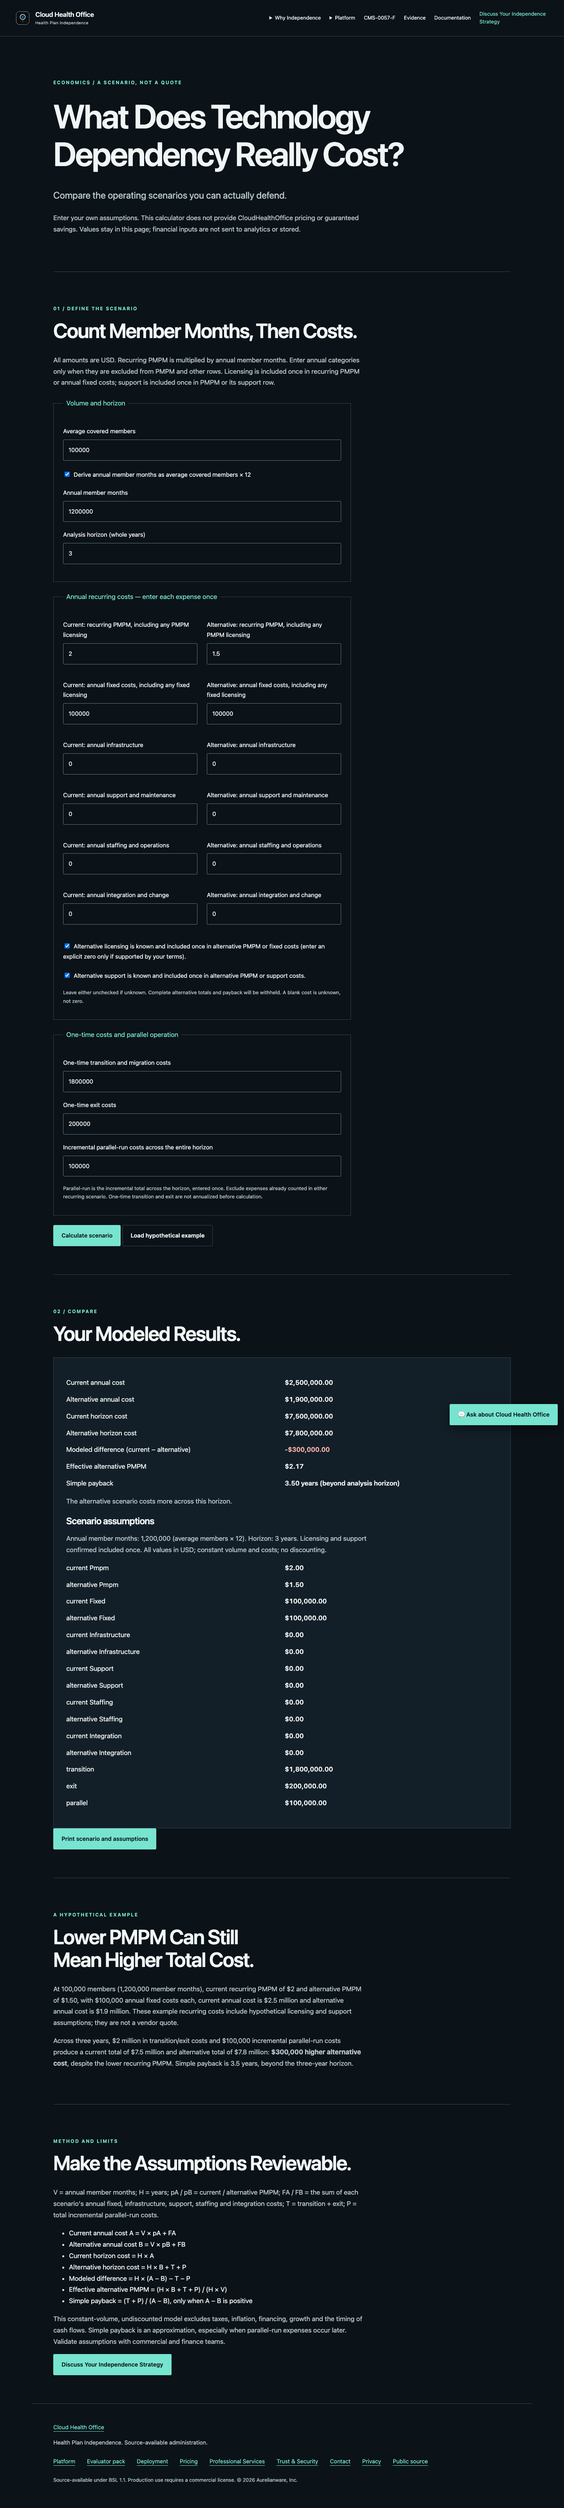
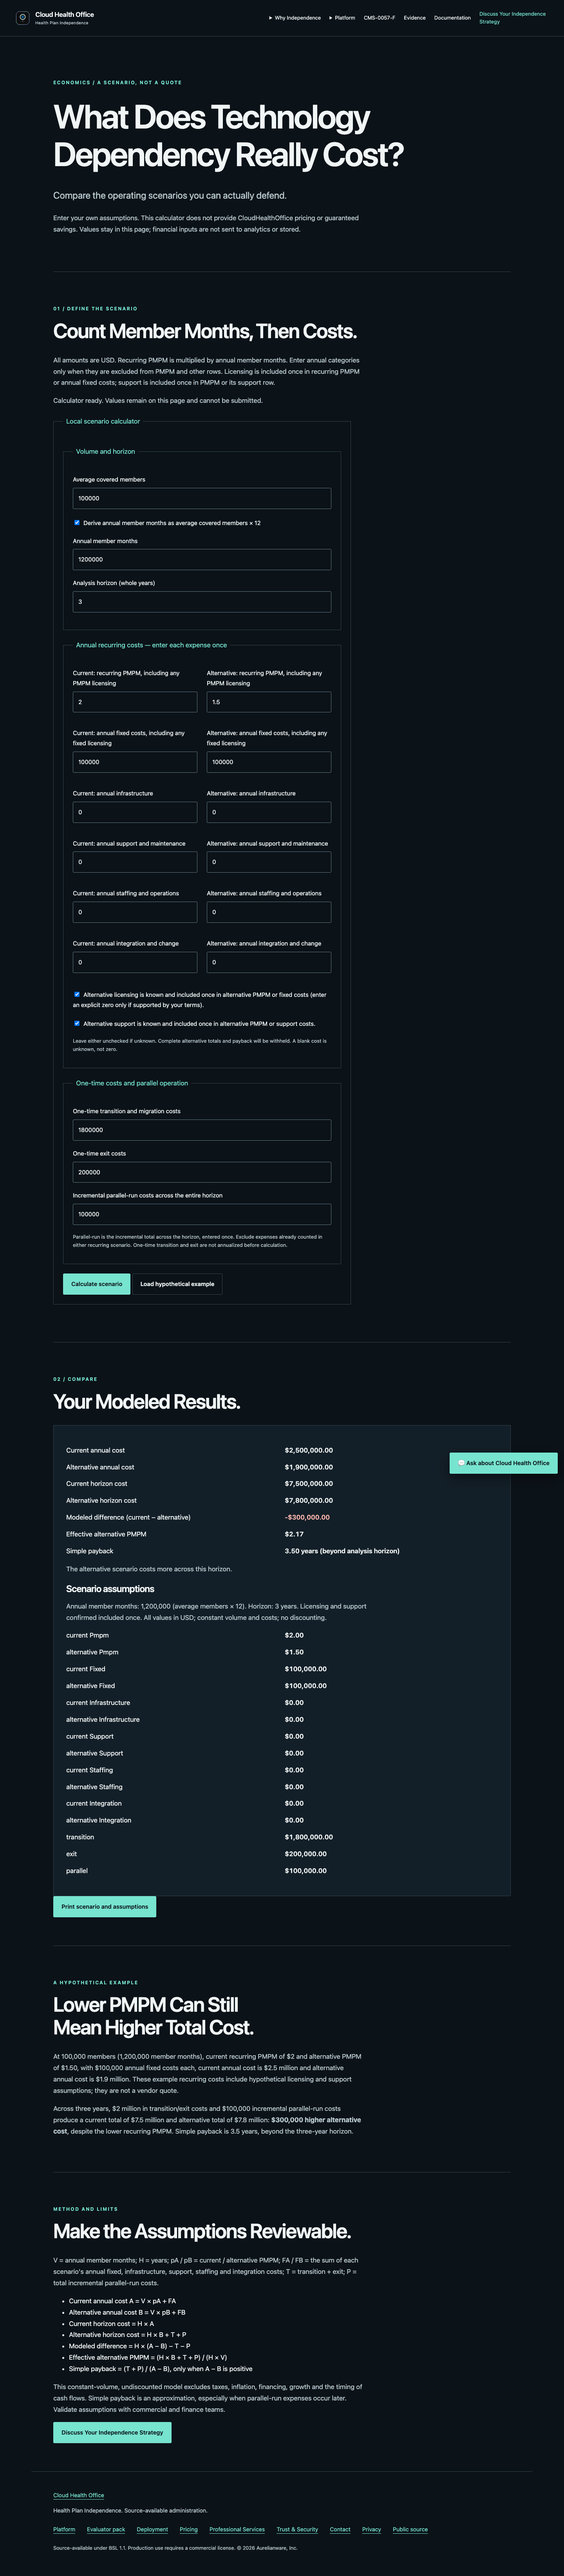
docs(marketing): refresh privacy, hosted routing and screenshot evidence

diff --git a/docs/marketing/independence/REVIEW.md b/docs/marketing/independence/REVIEW.md
@@ -15,11 +15,11 @@ Reviewed October 19, 2026 (America/Phoenix). Implementation branch: `feat/health
 
 No Search Console exports were available. The homepage title conservatively retains CMS-0057-F and FHIR intent: **Health Plan Administration & CMS-0057-F FHIR APIs, On Your Terms | CloudHealthOffice**. The description still names CMS-0057-F/FHIR and coexistence with QNXT, Facets and HealthEdge. Existing CMS and technical destinations remain linked.
 
-The artifact tests compare against `origin/main`: all **99 baseline HTML files** remain and every existing homepage `id` is retained. Existing fragment IDs are compatibility destinations; obsolete promotional controls are not restored. The redirect file is byte-for-byte unchanged, with no catch-all rules or newly introduced loops. Clean routes use the existing hosting convention; no infrastructure or historical Azure routing configuration was changed.
+The artifact tests compare against `origin/main`: all **99 baseline HTML files** remain. Thirteen meaningful legacy content fragments now land on substantive CMS/FHIR, platform progression, engagement, services and next-step content with matching onward links. Tests verify their subject, parent section, visibility and scroll destination, rather than mere ID existence. Obsolete `fp-banner`, `fp-banner-dismiss` and `stickyCta` control IDs are retired; they were not content destinations. The redirect file is byte-for-byte unchanged, with no catch-all rules or newly introduced loops. Clean routes use the existing hosting convention; no infrastructure or historical Azure routing configuration was changed.
 
 The existing sitemap generator runs in strict mode with full Git history. Its output has **95 unique URLs**, compared with 90 baseline entries: exactly the five new routes appear once. All original sitemap entries remain; error, login, portal and marketing mockup exclusions remain excluded. The generated `dist/sitemap.xml` is the deployment artifact; the curated source sitemap remains unchanged so unrelated priorities and dates are not rewritten.
 
-All six executive pages have one H1, a unique title/description, HTTPS canonical, matching social URL and parseable WebPage JSON-LD. Local href/src targets and fragment links resolve in built output. Existing remote documentation/source links were checked against repository paths, not represented as a complete remote-link availability crawl. Local clean-route testing reproduces file resolution; production CDN behavior must be checked in the hosting preview.
+All six executive pages have one H1, a unique title/description, HTTPS canonical, matching social URL and parseable WebPage JSON-LD. Local href/src targets and fragment links resolve in built output. Existing remote documentation/source links were checked against repository paths, not represented as a complete remote-link availability crawl. Local clean-route testing reproduces file resolution. The read-only hosted checker additionally verifies clean routes, canonical redirects and a calculator asset hash against an existing hosted preview; see the final-head evidence procedure below. Production-domain release validation remains separate.
 
 ## Capability claim review
 
@@ -41,17 +41,38 @@ The governing source is [CAPABILITY_RECONCILIATION.md](../../CAPABILITY_RECONCIL
 | Synthetic evidence | Existing `/evidence` and MCC archive | Supports evaluation, not production outcomes or customer adoption. |
 | Economics | Explicit buyer inputs; calculator arithmetic tests | No incumbent pricing claim, quote or guaranteed savings; unknown licensing/support blocks totals. |
 
+## Follow-up fixes and evidence identity
+
+The approved Health Plan Independence narrative, licensing qualifications and PR #1410 capability classifications are unchanged. Source/test revision **`dec71610ba665ef3ed7df69c0035a7b8ecc76bf0`** was validated from a clean checkout against explicit baseline **`01164a944c7c7a36bdb46cf0cfbab08d9e87e847`**. [source-validation.json](source-validation.json) records that clean source head, baseline, checks and SHA-256 hashes for the twelve responsive screenshots plus printable-results screenshot. The [Linux source validation run](https://github.com/aurelianware/cloudhealthoffice/actions/runs/39338617055) also passed at this SHA. Its first predecessor caught a Linux-font mobile overflow; the committed heading/button sizing fix passed the rerun. Subsequent review/evidence commits change documentation and images only.
+
+A report cannot embed the SHA of the commit that contains itself. Final-head evidence is therefore generated **after** committing: the PR description identifies the exact final SHA and links its [Marketing independence validation run](https://github.com/aurelianware/cloudhealthoffice/actions/workflows/marketing-independence.yml). That run uploads `independence-<full-head-SHA>` with a fresh `evidence.json` and screenshots. The workflow explicitly checks out the PR head, fetches its base SHA into `refs/remotes/origin/marketing-baseline`, and requires complete Git history. This avoids presenting a test of a merge commit, stale main ref or previous code revision as final-head validation. Local final-head screenshots are compared with the tracked PNG hashes; Linux CI captures are separately identified and may rasterize fonts differently.
+
+### Calculator fallback privacy
+
+The calculator has **no native form**, no named/form-associated financial controls and no submit buttons. Its outer fieldset and print button are disabled in source HTML, with an explicit unavailable message. Only complete successful initialization enables controls and announces readiness. The button and Enter use explicit local calculations. If JavaScript is disabled, blocked, throws during initialization or its handlers later stop working, there is no native request/URL serialization path for financial inputs. Native input validity is still checked before calculation.
+
+### Legacy destinations and keyboard entry
+
+`cms-explainer` / `audience-heading` target CMS/FHIR resources; `platform-flow`, `claims-pipeline-heading` and `how-it-works-heading` target the modernization progression; `engage` / `engage-heading` target the partnership invitation; `software-services` / `software-services-heading` target services; `advisory`, `advisory-heading`, `next-step` and `next-step-heading` target deployment discussion. All six executive main landmarks now accept skip-link focus.
+
 ## Validation
 
-- Locked site dependencies installed with `npm ci --prefix src/site --ignore-scripts`. Locked root dependencies installed with lifecycle scripts disabled to run the existing tests; package/lockfiles were not upgraded. Root installation reported 20 moderate advisories in existing dependencies; dependency remediation is outside the authorized marketing scope.
-- `SITEMAP_STRICT=1 npm run build:site` passed with the existing publication generator, HTML build and sitemap generation.
-- `npm run validate:site` completes; it reports no issues on the six executive pages and **21 potential issues on existing pages**. This legacy validator is not a complete accessibility audit.
-- Existing marketing positioning suite: **146 tests passed**.
-- New `npm --prefix src/site run test:independence`: **11 tests passed**, including seven arithmetic/invalid/unknown/edge-case calculator tests and four artifact/route/metadata/contrast checks. Run after building.
-- `node src/site/tests/independence-browser.cjs` (starts its own local clean-URL fixture unless `CHO_PREVIEW_URL` is set; `CHO_CHROME_PATH` can select installed Chrome) passed: six routes at 1440px and 390px, no horizontal overflow, one H1/canonical, visible skip-link focus, mobile menu/Escape/focus return, reduced-motion rendering, calculator stale-result invalidation and non-transmission, and both inquiry forms' failure/retry/acceptance/focus behavior.
-- Browser requests to external services were blocked. Formspree POST responses were mocked (500 then 200); successful-submit events occurred only after mocked acceptance. No real inquiry, email or calendar booking was sent. The built forms resolve to the existing configured endpoint `https://formspree.io/f/xgojygon`, but this does **not** establish inbox delivery or recipient ownership.
-- Contrast checks use the actual executive foreground/background tokens, including errors, accent links, button text and focus color. Keyboard and responsive checks are bounded, not a full assistive-technology or WCAG audit.
-- Generated `dist` was inspected and checked; test sources are excluded from the public artifact. All screenshots below come from that local built output. Calculator screenshots load the explicitly hypothetical example rather than implying a commercial quote.
+- `SITEMAP_STRICT=1 npm run build:site`: passed with full history, publication generation and sitemap. **95 unique sitemap URLs**, all baseline entries retained; no redirect-file changes.
+- `npm --prefix src/site run test:independence`: **13 passed**, including seven arithmetic tests and six artifact, route, metadata, fallback, meaningful-fragment and contrast checks. `CHO_BASELINE_REF` explicitly selects the fetched comparison commit.
+- Existing marketing positioning suite: **146 passed**.
+- Browser checks passed at **1440px and 390px** for all six pages: no overflow, one H1, matching canonical/social URL, keyboard skip focus on every page, home menu/disclosure/Escape focus, and thirteen content fragment destinations.
+- Privacy checks cover disabled JavaScript, a blocked calculator script and an injected formatter initialization failure. Unavailable/disabled state is asserted; button and Enter attempts produce no requests, including after test-only forced re-enabling of unnamed controls.
+- Valid, unique sentinel costs respect each field's step/min constraints. Both button and Enter produce successful recalculations; six exact computed outputs and incrementing success-event counts are asserted. The actual `analytics-events.js`, `choTrack` and build-injected `gtag` queue run unchanged. Every observed request URL, body and header, analytics event payload and browser storage is inspected for sentinels. **The remote GTM/GA loader is blocked; live GA receipt is not claimed.**
+- Both shared Formspree pathways retain mocked failure → retry → accepted response checks. The actual analytics queue records an error on failure and success only after acceptance; focus and PII exclusion are checked. External form requests are intercepted; **zero real inquiries or calendar bookings** are sent. Endpoint acceptance is not recipient/delivery verification.
+- Printable results include the successfully recalculated amounts and assumptions; the assistant and print action are hidden in print media. [Printable-results capture](screenshots/calculator-print.png) uses synthetic sentinel values, not real financial information.
+- `npm run validate:site` completes with no findings on the six executive pages and **21 potential pre-existing-page issues**. Contrast/keyboard checks are bounded, not a complete WCAG or assistive-technology audit.
+- New `.github/workflows/marketing-independence.yml` runs the strict build, independence unit/artifact checks, installed Chromium browser checks and head-labelled evidence upload on PRs, including evidence/report changes. It has read-only repository permissions and no publish/deploy step. Dependency versions/lockfiles and existing deployment workflows are unchanged.
+
+### Hosted preview verification
+
[1 lines of base64/hex data omitted]
+
+Reproduce local browser checks with `CHO_EVIDENCE_DIR=/tmp/independence-evidence node src/site/tests/independence-browser.cjs` after building. It starts its own local clean-route fixture; `CHO_CHROME_PATH` can select installed Chrome. Hosted checks only issue GET requests and require an existing HTTPS preview; they never create or publish one.
 
 ## Review screenshots
 
@@ -66,6 +87,6 @@ The governing source is [CAPABILITY_RECONCILIATION.md](../../CAPABILITY_RECONCIL
 
 ## Outstanding owner decisions before launch
 
-Confirm partnership scope, commercial terms and legal approval of licensing representations. Verify Formspree recipient ownership and delivery, spam controls and lead follow-up responsibilities. Verify the production host and clean-URL preview behavior. Review existing dependency advisories and accessibility issues separately. Full standards conformance, payer-specific model quality, customer deployments, operational performance and financial outcomes remain unverified; this PR makes no stronger claims.
+Confirm partnership scope, commercial terms and legal approval of licensing representations. Verify Formspree recipient ownership and delivery, spam controls and lead follow-up responsibilities. Confirm the production hosting/release owner before any production deployment; hosted preview evidence does not authorize release. Review existing dependency advisories and accessibility issues separately. Full standards conformance, payer-specific model quality, customer deployments, operational performance and financial outcomes remain unverified; this PR makes no stronger claims.
 
-The local repositioning plan found in the prior `cho-phase6` checkout informed the design; current merged capability evidence takes precedence over its historical gap labels. No application services, API contracts, authentication, infrastructure, deployment workflows, licenses or companion-site repository were modified.
+The local repositioning plan found in the prior `cho-phase6` checkout informed the design; current merged capability evidence takes precedence over its historical gap labels. No application services, API contracts, authentication, infrastructure, existing deployment workflows, licenses or companion-site repository were modified. The new workflow is validation-only.
